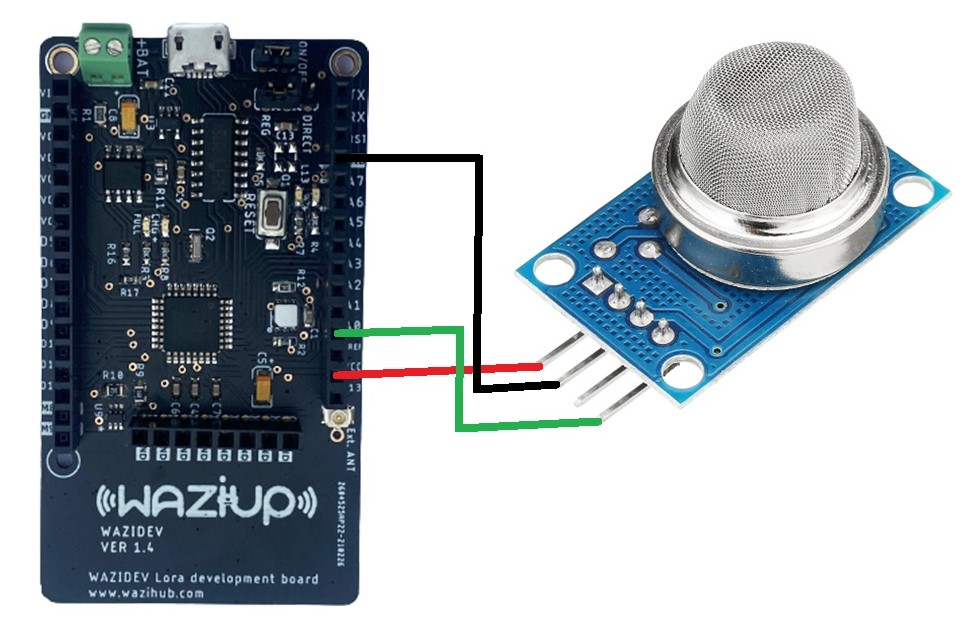
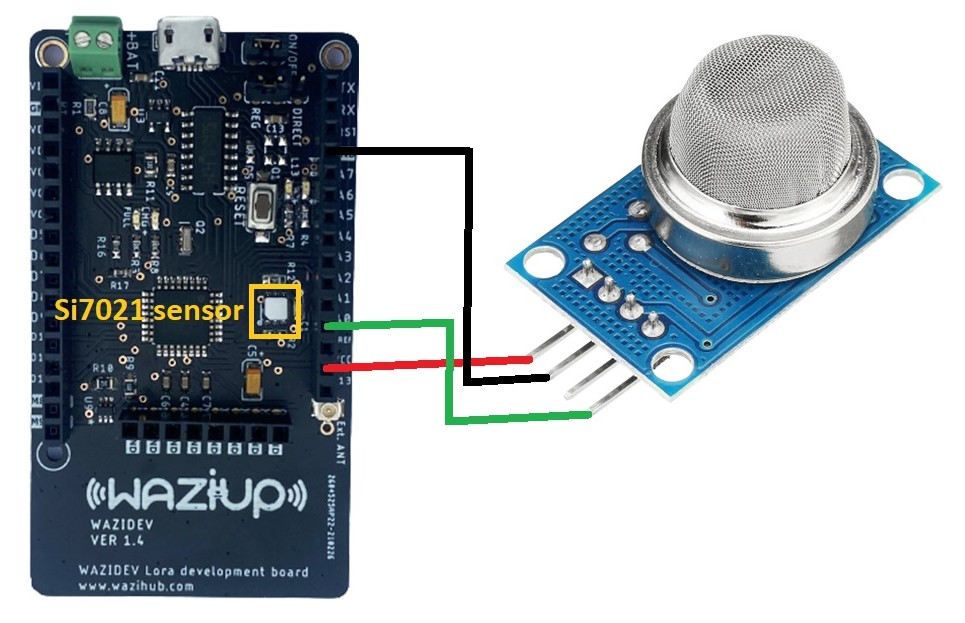
fire detection

Changed region(s): [[0.0311, 0.0, 0.9948, 0.9759]]

diff --git a/content/en/solutions/fire_smoke_detection/guide.md b/content/en/solutions/fire_smoke_detection/guide.md
@@ -28,37 +28,46 @@ Hardware
 ![Parts One](./media/firedetection.png)
 
 Software
-  - Please install the [Arduino IDE](https://www.arduino.cc/en/Main/Software) for the programming aspects.
+  - Install the [Arduino IDE](https://www.arduino.cc/en/Main/Software) for the programming aspects.
   - Install the [WaziDev](https://github.com/Waziup/WaziDev/archive/master.zip) libraries for LoRa communication. Follow the guide [here](https://waziup.io/documentation/wazidev/user-manual/#install-the-wazidev-sketchbook)
+  - Install the [Si7021](https://github.com/adafruit/Adafruit_Si7021) digital humidity and temperature sensor library by **Adafruit**
 
-**Step \#1:** Setting up the Soil Moisture Sensor
+**Step \#1:** Setting MQ5 Gas & Smoke Sensor
 =================================================
-Soil moisture sensors measures the amount of water in the soil to maintain consistent and ideal soil conditions for plants.
-They can be used to detect the moisture of soil or judge if there is water around the sensor. They can be very easy to use, 
-just insert it into the soil and then read it.
+Under the **Sketch** menu in the Arduino IDE, locate **Include Libraries** and navigate to **Manage Libraries..** and click to open the libraries manager.
+
+![Installing si7021](./media/lib1.png)
+
+Search for **"Adafruit_Si7021"** in the search box and install the version by **Adafruit**
+
+After installing we should see the label **INSTALLED** as shown below.
+
+![Installed si7021](./media/si7021.png)
+
+We can now close the library manager.
+
+**Step \#2:** Setting MQ5 Gas & Smoke Sensor
+=================================================
+The MQ5 Gas Sensor module is useful for gas leakage detecting. It can detect LPG, i-butane, methane, alcohol, Hydrogen, smoke and so on.
+
+We can also measure the corresponding temperature of the space where we place our MQ5 sensor. This is because, as more smoke or fire gets trapped in a room, the temperature of the room also increases. Luckily for us, the wazidev has a digital humidity and temperature sensor. Lets put it to work.
 
 Schematics
 ----------
-There are only three pins that you need to worry about on most of these analog soil humidity sensors. The common principle is to power the sensor and get the output voltage on an analog pin. In our case, we are going to use pin A6.
+There are only three pins that you need to worry about on most of these analog sensors. The common principle is to power the sensor and get the output voltage on an analog pin. In our case, we are going to use pin A0.
 
 ![Sensor Wiring](./media/firewire.jpg)
 
-NOTE: we are powering the soil moisture sensor from **pin D6**. Each digital pin can with stand **40mA** max current draw. The soil moisture sensor is rated for **35mA**.
-
 Module interface:
-1. VCC: Connect to the D6 pin of the WaziACT
-2. GND: Connect to the GND pin of the WaziACT
-3. IN: Connect to the WaziACT analog pin A6
+1. VCC: Connect to the VCC pin of the WaziDev
+2. GND: Connect to the GND pin of the WaziDev
+3. IN: Connect to the WaziDev analog pin A0
 
 Code Sample
 -----------
 ```c
-/********************
- * Soil Moisture Tester
- * Read soil humidity by measuring its resistance.
- ********************/
 
-int sensorPin = A6;
+int sensorPin = A0;
 int sensorPow = 6;
 
 void setup() {
